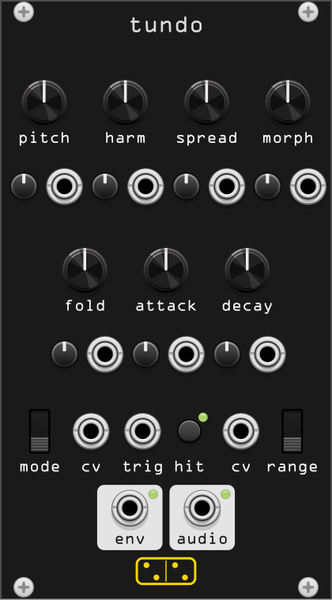
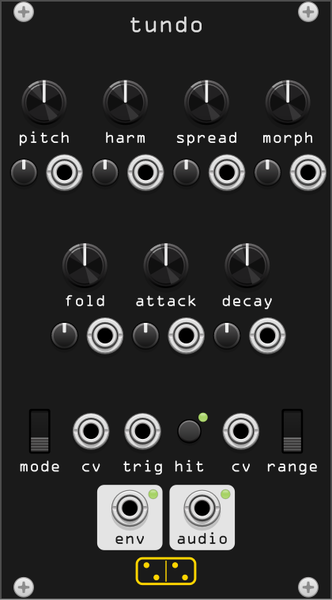
fix(tundo): triangle rows follow the small-knob offset
Both banks are RoundBlackKnobs, so their trimpot/CV rows belong at knob
+15, not the +18 a big knob wants. Pull them up and drop the second bank
1mm so the two bands between rows come out equal.

Claude-Session: https://claude.ai/code/session_01XJnnZWwVUvyoRqaXzf7SYY

diff --git a/src/tundo.cpp b/src/tundo.cpp
@@ -373,9 +373,9 @@ struct TundoWidget : ModuleWidget {
 // @elem LABEL_HARM label 0.0 label "harm" 0.0 26.86 30.50
 // @elem LABEL_SPREAD label 0.0 label "spread" 0.0 44.26 30.50
 // @elem LABEL_MORPH label 0.0 label "morph" 0.0 61.66 30.50
-// @elem LABEL_FOLD label 0.0 label "fold" 0.0 18.16 66.50
-// @elem LABEL_ATTACK label 0.0 label "attack" 0.0 35.56 66.50
-// @elem LABEL_DECAY label 0.0 label "decay" 0.0 52.96 66.50
+// @elem LABEL_FOLD label 0.0 label "fold" 0.0 18.16 65.50
+// @elem LABEL_ATTACK label 0.0 label "attack" 0.0 35.56 65.50
+// @elem LABEL_DECAY label 0.0 label "decay" 0.0 52.96 65.50
 // @elem LABEL_MODE label 0.0 label "mode" 0.0 8.50 101.00
 // @elem LABEL_MODECV label 0.0 label "cv" 0.0 19.50 101.00
 // @elem LABEL_TRIG label 0.0 label "trig" 0.0 30.56 101.00
@@ -396,23 +396,23 @@ struct TundoWidget : ModuleWidget {
         addParam(createParamCentered<RoundBlackKnob>(mm2px(Vec(26.86f, 22.00f)), module, Tundo::HARM_PARAM));
         addParam(createParamCentered<RoundBlackKnob>(mm2px(Vec(44.26f, 22.00f)), module, Tundo::SPREAD_PARAM));
         addParam(createParamCentered<RoundBlackKnob>(mm2px(Vec(61.66f, 22.00f)), module, Tundo::MORPH_PARAM));
-        addParam(createParamCentered<Trimpot>(mm2px(Vec(5.11f, 40.00f)), module, Tundo::PITCH_ATT_PARAM));
-        addParam(createParamCentered<Trimpot>(mm2px(Vec(22.51f, 40.00f)), module, Tundo::HARM_ATT_PARAM));
-        addParam(createParamCentered<Trimpot>(mm2px(Vec(39.91f, 40.00f)), module, Tundo::SPREAD_ATT_PARAM));
-        addParam(createParamCentered<Trimpot>(mm2px(Vec(57.31f, 40.00f)), module, Tundo::MORPH_ATT_PARAM));
-        addInput(createInputCentered<PJ301MPort>(mm2px(Vec(13.81f, 40.00f)), module, Tundo::PITCH_CV_INPUT));
-        addInput(createInputCentered<PJ301MPort>(mm2px(Vec(31.21f, 40.00f)), module, Tundo::HARM_CV_INPUT));
-        addInput(createInputCentered<PJ301MPort>(mm2px(Vec(48.61f, 40.00f)), module, Tundo::SPREAD_CV_INPUT));
-        addInput(createInputCentered<PJ301MPort>(mm2px(Vec(66.01f, 40.00f)), module, Tundo::MORPH_CV_INPUT));
-        addParam(createParamCentered<RoundBlackKnob>(mm2px(Vec(18.16f, 58.00f)), module, Tundo::FOLD_PARAM));
-        addParam(createParamCentered<RoundBlackKnob>(mm2px(Vec(35.56f, 58.00f)), module, Tundo::ATTACK_PARAM));
-        addParam(createParamCentered<RoundBlackKnob>(mm2px(Vec(52.96f, 58.00f)), module, Tundo::DECAY_PARAM));
-        addParam(createParamCentered<Trimpot>(mm2px(Vec(13.81f, 76.00f)), module, Tundo::FOLD_ATT_PARAM));
-        addParam(createParamCentered<Trimpot>(mm2px(Vec(31.21f, 76.00f)), module, Tundo::ATTACK_ATT_PARAM));
-        addParam(createParamCentered<Trimpot>(mm2px(Vec(48.61f, 76.00f)), module, Tundo::DECAY_ATT_PARAM));
-        addInput(createInputCentered<PJ301MPort>(mm2px(Vec(22.51f, 76.00f)), module, Tundo::FOLD_CV_INPUT));
-        addInput(createInputCentered<PJ301MPort>(mm2px(Vec(39.91f, 76.00f)), module, Tundo::ATTACK_CV_INPUT));
-        addInput(createInputCentered<PJ301MPort>(mm2px(Vec(57.31f, 76.00f)), module, Tundo::DECAY_CV_INPUT));
+        addParam(createParamCentered<Trimpot>(mm2px(Vec(5.11f, 37.00f)), module, Tundo::PITCH_ATT_PARAM));
+        addParam(createParamCentered<Trimpot>(mm2px(Vec(22.51f, 37.00f)), module, Tundo::HARM_ATT_PARAM));
+        addParam(createParamCentered<Trimpot>(mm2px(Vec(39.91f, 37.00f)), module, Tundo::SPREAD_ATT_PARAM));
+        addParam(createParamCentered<Trimpot>(mm2px(Vec(57.31f, 37.00f)), module, Tundo::MORPH_ATT_PARAM));
+        addInput(createInputCentered<PJ301MPort>(mm2px(Vec(13.81f, 37.00f)), module, Tundo::PITCH_CV_INPUT));
+        addInput(createInputCentered<PJ301MPort>(mm2px(Vec(31.21f, 37.00f)), module, Tundo::HARM_CV_INPUT));
+        addInput(createInputCentered<PJ301MPort>(mm2px(Vec(48.61f, 37.00f)), module, Tundo::SPREAD_CV_INPUT));
+        addInput(createInputCentered<PJ301MPort>(mm2px(Vec(66.01f, 37.00f)), module, Tundo::MORPH_CV_INPUT));
+        addParam(createParamCentered<RoundBlackKnob>(mm2px(Vec(18.16f, 57.00f)), module, Tundo::FOLD_PARAM));
+        addParam(createParamCentered<RoundBlackKnob>(mm2px(Vec(35.56f, 57.00f)), module, Tundo::ATTACK_PARAM));
+        addParam(createParamCentered<RoundBlackKnob>(mm2px(Vec(52.96f, 57.00f)), module, Tundo::DECAY_PARAM));
+        addParam(createParamCentered<Trimpot>(mm2px(Vec(13.81f, 72.00f)), module, Tundo::FOLD_ATT_PARAM));
+        addParam(createParamCentered<Trimpot>(mm2px(Vec(31.21f, 72.00f)), module, Tundo::ATTACK_ATT_PARAM));
+        addParam(createParamCentered<Trimpot>(mm2px(Vec(48.61f, 72.00f)), module, Tundo::DECAY_ATT_PARAM));
+        addInput(createInputCentered<PJ301MPort>(mm2px(Vec(22.51f, 72.00f)), module, Tundo::FOLD_CV_INPUT));
+        addInput(createInputCentered<PJ301MPort>(mm2px(Vec(39.91f, 72.00f)), module, Tundo::ATTACK_CV_INPUT));
+        addInput(createInputCentered<PJ301MPort>(mm2px(Vec(57.31f, 72.00f)), module, Tundo::DECAY_CV_INPUT));
         addParam(createParamCentered<CKSSThree>(mm2px(Vec(8.50f, 92.50f)), module, Tundo::MODE_PARAM));
         addInput(createInputCentered<PJ301MPort>(mm2px(Vec(19.50f, 92.50f)), module, Tundo::MODE_CV_INPUT));
         addInput(createInputCentered<PJ301MPort>(mm2px(Vec(30.56f, 92.50f)), module, Tundo::TRIG_INPUT));
